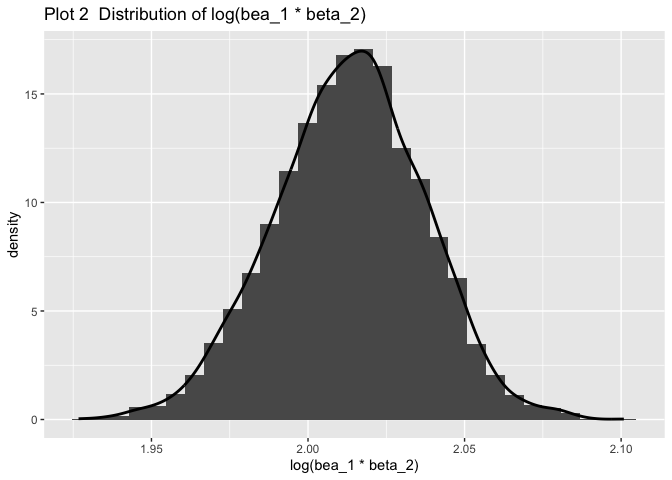
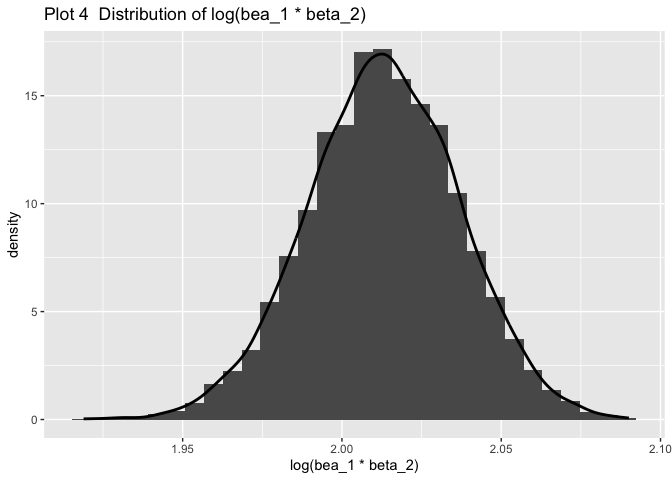
Add comment for Problem one

diff --git a/p8105_hw6_rq2166.md b/p8105_hw6_rq2166.md
@@ -3,6 +3,10 @@ p8105\_hw6\_rq2166
 Ruoyuan Qian
 11/18/2019
 
+# Problem 1
+
+Tidy data
+
 ``` r
 birthweight = 
   read_csv("data/birthweight.csv") %>% 
@@ -124,12 +128,21 @@ summary(mod)
     ## Multiple R-squared:  0.7148, Adjusted R-squared:  0.7142 
     ## F-statistic:  1086 on 10 and 4331 DF,  p-value: < 2.2e-16
 
+First of all, I put all variables into the regression, and select
+variables with p-value smaller than 0.05. Finally, built a new model
+with selected variables as the final model.
+
 ``` r
 birthweight %>% 
   add_predictions(mod) %>% 
   add_residuals(mod) %>% 
   ggplot(aes(x = pred, y = resid)) + geom_point(alpha = .3,color = "blue") + 
-  geom_smooth(aes(y = resid), color = "red",method = "lm")
+  geom_smooth(aes(y = resid), color = "red",method = "lm")+
+  labs(x = "Fitted value",
+       y = "Residuals",
+       title = "Plot 1   Scatter plot showing distribution of residuals"
+       )+
+   theme(plot.title = element_text(hjust = 0.5))
 ```
 
 ![](p8105_hw6_rq2166_files/figure-gfm/unnamed-chunk-3-1.png)<!-- -->
@@ -143,27 +156,6 @@ birthweight %>%
 cv_df = 
   crossv_mc(birthweight, 100) 
 
-cv_df %>% pull(train) %>% .[[1]] %>% as_tibble
-```
-
-    ## # A tibble: 3,473 x 20
-    ##    babysex bhead blength   bwt delwt fincome frace gaweeks malform menarche
-    ##    <fct>   <dbl>   <dbl> <dbl> <dbl>   <dbl> <fct>   <dbl> <fct>      <dbl>
-    ##  1 female     34      51  3629   177      35 White    39.9 absent        13
-    ##  2 male       34      48  3062   156      65 Black    25.9 absent        14
-    ##  3 female     36      50  3345   148      85 White    39.9 absent        12
-    ##  4 male       34      52  3062   157      55 White    40   absent        14
-    ##  5 female     34      52  3374   156       5 White    41.6 absent        13
-    ##  6 male       33      52  3374   129      55 White    40.7 absent        12
-    ##  7 female     33      49  2778   140       5 White    37.4 absent        12
-    ##  8 male       36      52  3515   146      85 White    40.3 absent        11
-    ##  9 male       33      50  3459   169      75 Black    40.7 absent        12
-    ## 10 female     35      51  3317   130      55 White    43.4 absent        13
-    ## # … with 3,463 more rows, and 10 more variables: mheight <dbl>,
-    ## #   momage <dbl>, mrace <fct>, parity <dbl>, pnumlbw <dbl>, pnumsga <dbl>,
-    ## #   ppbmi <dbl>, ppwt <dbl>, smoken <dbl>, wtgain <dbl>
-
-``` r
 cv_df =
   cv_df %>% 
   mutate(
@@ -175,14 +167,25 @@ cv_df =
 cv_df = 
   cv_df %>% 
   mutate(mod_diy  =
-           map(train,~lm(bwt~babysex+bhead+blength+delwt+gaweeks+mrace+parity+smoken,data = .x)),
+           map(train,~lm(bwt~babysex+bhead+blength+
+                             delwt+gaweeks+mrace+
+                             parity+smoken,
+               data = .x)),
          mod_1  = 
-           map(train, ~lm(bwt~blength + gaweeks, data = .x)),
+           map(train, ~lm(bwt~blength+gaweeks, 
+               data = .x)),
          mod_2  = 
-           map(train, ~lm(bwt~bhead + blength + babysex + bhead*blength + bhead*babysex + blength*babysex + bhead*blength*babysex ,data = .x))) %>% 
-  mutate(rmse_diy = map2_dbl(mod_diy, test, ~rmse(model = .x, data = .y)),
-         rmse_1 = map2_dbl(mod_1, test, ~rmse(model = .x, data = .y)),
-         rmse_2 = map2_dbl(mod_2, test, ~rmse(model = .x, data = .y)))
+           map(train, ~lm(bwt~bhead+blength+babysex+
+                              bhead*blength+bhead*babysex+
+                              blength*babysex+
+                              bhead*blength*babysex,
+                          data = .x))) %>% 
+  mutate(rmse_diy = map2_dbl(mod_diy,test,
+                             ~rmse(model = .x, data = .y)),
+         rmse_1 = map2_dbl(mod_1,test, 
+                             ~rmse(model = .x, data = .y)),
+         rmse_2 = map2_dbl(mod_2, test, 
+                             ~rmse(model = .x, data = .y)))
 ```
 
 ``` r
@@ -194,10 +197,20 @@ cv_df %>%
     values_to = "rmse",
     names_prefix = "rmse_") %>% 
   mutate(model = fct_inorder(model)) %>% 
-  ggplot(aes(x = model, y = rmse)) + geom_violin()
+  ggplot(aes(x = model, y = rmse)) + 
+  geom_violin()+
+  labs(x = "Model type",
+       y = "RMSE",
+       title = "Plot 2   Violin plot showing distributions of RMSE across models")+
+   theme(plot.title = element_text(hjust = 0.5))
 ```
 
 ![](p8105_hw6_rq2166_files/figure-gfm/unnamed-chunk-7-1.png)<!-- -->
+
+According to Plot 2, model `diy` is the model built by myself, model 1
+and 2 denote the models described by the `Problem 1`. Since the model
+with smaller `RMSE` is better than the model with larger `RMSE`, the
+model 1 is the worset and model built by myself is the best.
 
 # Problem 2
 
@@ -236,21 +249,6 @@ weather =
 ```
 
 ``` r
-#boot_straps = 
-#  weather %>% 
-#  modelr::bootstrap(n = 1000)
-
-#as_data_frame(boot_straps$strap[[1]])
-
-#a = lm( tmax ~ tmin , data = weather) 
-#summary(a)
-#tidy = broom::tidy(a)
-#b1 * b2
-#prod(tidy[[2]])
-
-# r2
-#broom::glance(a)[[1]]
-
 estimate = 
   weather %>% 
   modelr::bootstrap(n = 5000) %>% 
@@ -276,7 +274,7 @@ estimate %>%
  geom_histogram()+
  geom_line(stat = 'Density',size = 1)+
     labs(x = "R squared",
-         title = "Plot 1  Distribution of R squared")
+         title = "Plot 3  Distribution of R squared")
 ```
 
     ## `stat_bin()` using `bins = 30`. Pick better value with `binwidth`.
@@ -289,7 +287,7 @@ estimate %>%
  geom_histogram()+
  geom_line(stat = 'Density',size = 1)+
     labs(x = "log(bea_1 * beta_2)",
-         title = "Plot 2  Distribution of log(bea_1 * beta_2)")
+         title = "Plot 4  Distribution of log(bea_1 * beta_2)")
 ```
 
     ## `stat_bin()` using `bins = 30`. Pick better value with `binwidth`.
@@ -328,5 +326,5 @@ ci
     ## # A tibble: 2 x 2
     ##   variable  CI           
     ##   <chr>     <chr>        
-    ## 1 r_squared 0.8933-0.9277
-    ## 2 log_b     1.9652-2.0576
+    ## 1 r_squared 0.8938-0.9273
+    ## 2 log_b     1.9654-2.0587
